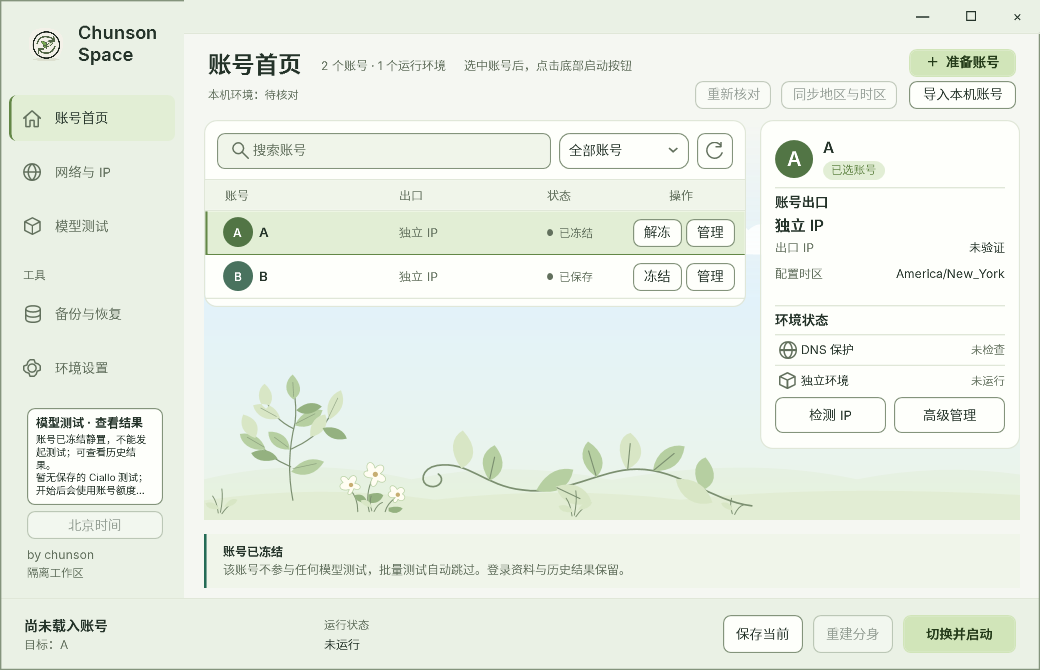
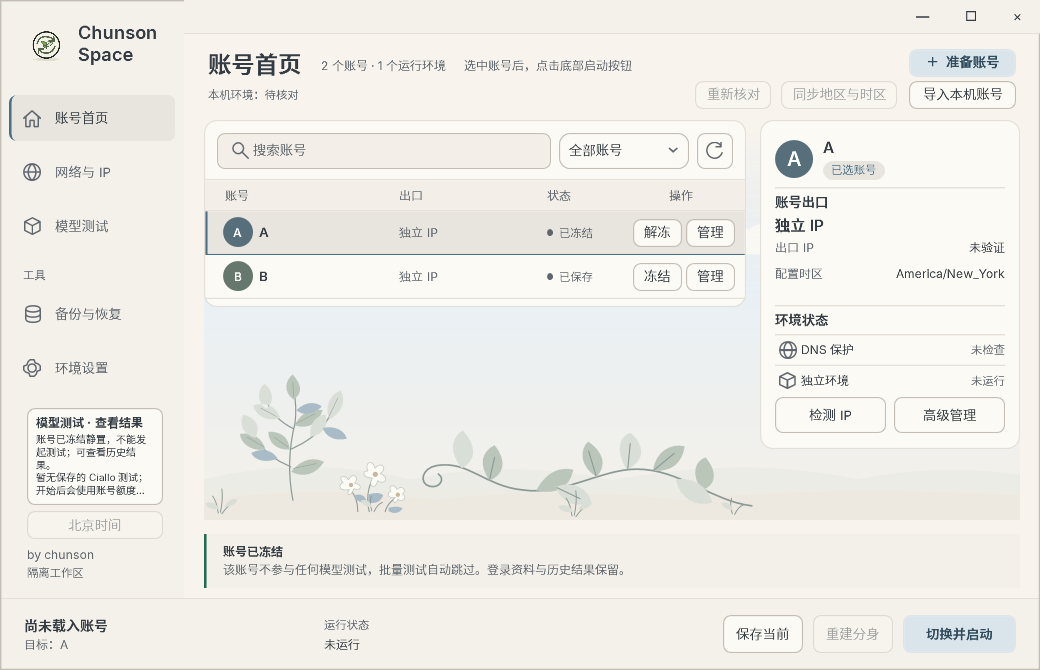
Release 1.4.2 with warm paper and mist blue UI

diff --git a/full/windows/FAswitch.Desktop/MainWindow.xaml b/full/windows/FAswitch.Desktop/MainWindow.xaml
@@ -820,7 +820,7 @@
         </StackPanel>
       </Grid>
     </Border>
-    <Grid Grid.RowSpan="4" Background="#66202B28" Visibility="{Binding IsDetailOpen,Converter={StaticResource BoolVisibility}}" Grid.ColumnSpan="2">
+    <Grid Grid.RowSpan="4" Background="{DynamicResource DetailScrimBrush}" Visibility="{Binding IsDetailOpen,Converter={StaticResource BoolVisibility}}" Grid.ColumnSpan="2">
       <Grid HorizontalAlignment="Center" VerticalAlignment="Center">
         <Border Width="820" Height="585" Background="{DynamicResource SurfaceBrush}" CornerRadius="13" BorderBrush="{DynamicResource OutlineBrush}" BorderThickness="1" />
         <Button MinHeight="28" MinWidth="30" Content="×" Command="{Binding CloseDetailsCommand}" HorizontalAlignment="Right" VerticalAlignment="Top" Margin="0,5,7,0" Padding="10,6" Background="Transparent" BorderThickness="0" FontSize="20" />
@@ -929,7 +929,7 @@
         </Border>
       </Grid>
     </Grid>
-    <Grid Grid.RowSpan="4" Background="#88202B28" KeyboardNavigation.TabNavigation="Cycle" Visibility="{Binding IsOnboardingOpen,Converter={StaticResource BoolVisibility}}" Grid.ColumnSpan="2">
+    <Grid Grid.RowSpan="4" Background="{DynamicResource ScrimBrush}" KeyboardNavigation.TabNavigation="Cycle" Visibility="{Binding IsOnboardingOpen,Converter={StaticResource BoolVisibility}}" Grid.ColumnSpan="2">
       <Border Width="560" MaxHeight="600" Background="{DynamicResource SurfaceBrush}" BorderBrush="{DynamicResource OutlineBrush}" BorderThickness="1" CornerRadius="20" Padding="28" HorizontalAlignment="Center" VerticalAlignment="Center" DataContext="{Binding Onboarding}">
         <Grid>
           <Grid.RowDefinitions><RowDefinition Height="Auto"/><RowDefinition Height="*"/><RowDefinition Height="Auto"/></Grid.RowDefinitions>
@@ -978,7 +978,7 @@
         </Grid>
       </Border>
     </Grid>
-    <Grid Grid.RowSpan="4" Background="#88202B28" KeyboardNavigation.TabNavigation="Cycle" Visibility="{Binding IsEditorOpen, Converter={StaticResource BoolVisibility}}" xmlns="http://schemas.microsoft.com/winfx/2006/xaml/presentation" Grid.ColumnSpan="2">
+    <Grid Grid.RowSpan="4" Background="{DynamicResource ScrimBrush}" KeyboardNavigation.TabNavigation="Cycle" Visibility="{Binding IsEditorOpen, Converter={StaticResource BoolVisibility}}" xmlns="http://schemas.microsoft.com/winfx/2006/xaml/presentation" Grid.ColumnSpan="2">
       <Border Width="540" MaxHeight="620" Background="{DynamicResource CanvasBrush}" CornerRadius="14" Padding="28" HorizontalAlignment="Center" VerticalAlignment="Center" BorderBrush="{DynamicResource OutlineBrush}" BorderThickness="1">
         <Grid DataContext="{Binding Editor}">
           <Grid.RowDefinitions>
@@ -1046,7 +1046,7 @@
         </Grid>
       </Border>
     </Grid>
-    <Grid Grid.RowSpan="4" Grid.ColumnSpan="2" Background="#88202B28" KeyboardNavigation.TabNavigation="Cycle" Visibility="{Binding IsDiagnosticOpen,Converter={StaticResource BoolVisibility}}">
+    <Grid Grid.RowSpan="4" Grid.ColumnSpan="2" Background="{DynamicResource ScrimBrush}" KeyboardNavigation.TabNavigation="Cycle" Visibility="{Binding IsDiagnosticOpen,Converter={StaticResource BoolVisibility}}">
       <Border Width="680" Height="530" Padding="24" CornerRadius="12" Background="{DynamicResource CanvasBrush}" BorderBrush="{DynamicResource OutlineBrush}" BorderThickness="1">
         <Grid><Grid.RowDefinitions><RowDefinition Height="Auto"/><RowDefinition Height="*"/><RowDefinition Height="Auto"/></Grid.RowDefinitions>
           <StackPanel Margin="0,0,0,16"><TextBlock x:Name="AccountResultTitle" Text="{Binding DiagnosticTitle}" FontSize="20" FontWeight="SemiBold"/><TextBlock Text="{Binding DiagnosticAccount}" Foreground="{DynamicResource MutedBrush}" FontSize="12" Margin="0,6,0,0" TextTrimming="CharacterEllipsis"/></StackPanel>
@@ -1055,7 +1055,7 @@
         </Grid>
       </Border>
     </Grid>
-    <Grid Grid.RowSpan="4" Background="#88202B28" KeyboardNavigation.TabNavigation="Cycle" DataContext="{Binding ProxyPanel.NodeTesting}" Visibility="{Binding IsOpen,Converter={StaticResource BoolVisibility}}" Grid.ColumnSpan="2">
+    <Grid Grid.RowSpan="4" Background="{DynamicResource ScrimBrush}" KeyboardNavigation.TabNavigation="Cycle" DataContext="{Binding ProxyPanel.NodeTesting}" Visibility="{Binding IsOpen,Converter={StaticResource BoolVisibility}}" Grid.ColumnSpan="2">
       <Border Width="920" Height="600" Background="{DynamicResource CanvasBrush}" BorderBrush="{DynamicResource OutlineBrush}" BorderThickness="1" CornerRadius="18" Padding="24" HorizontalAlignment="Center" VerticalAlignment="Center">
         <Grid>
           <Grid.RowDefinitions><RowDefinition Height="Auto"/><RowDefinition Height="*"/><RowDefinition Height="Auto"/></Grid.RowDefinitions>
@@ -1137,7 +1137,7 @@
         </Grid>
       </Border>
     </Grid>
-    <Grid Grid.RowSpan="4" Grid.ColumnSpan="2" Background="#88202B28" KeyboardNavigation.TabNavigation="Cycle" Visibility="{Binding IsVisualTestsOpen,Converter={StaticResource BoolVisibility}}">
+    <Grid Grid.RowSpan="4" Grid.ColumnSpan="2" Background="{DynamicResource ScrimBrush}" KeyboardNavigation.TabNavigation="Cycle" Visibility="{Binding IsVisualTestsOpen,Converter={StaticResource BoolVisibility}}">
       <Border Width="920" Height="600" Background="{DynamicResource CanvasBrush}" BorderBrush="{DynamicResource OutlineBrush}" BorderThickness="1" CornerRadius="18" Padding="24" HorizontalAlignment="Center" VerticalAlignment="Center">
         <Grid DataContext="{Binding VisualTests}">
           <Grid.RowDefinitions><RowDefinition Height="Auto"/><RowDefinition Height="*"/><RowDefinition Height="Auto"/></Grid.RowDefinitions>
@@ -1202,7 +1202,7 @@
         </Grid>
       </Border>
     </Grid>
-    <Grid Grid.RowSpan="4" Grid.ColumnSpan="2" Background="#88202B28" KeyboardNavigation.TabNavigation="Cycle" Visibility="{Binding IsCialloOpen,Converter={StaticResource BoolVisibility}}">
+    <Grid Grid.RowSpan="4" Grid.ColumnSpan="2" Background="{DynamicResource ScrimBrush}" KeyboardNavigation.TabNavigation="Cycle" Visibility="{Binding IsCialloOpen,Converter={StaticResource BoolVisibility}}">
       <Border Width="920" Height="600" Background="{DynamicResource CanvasBrush}" BorderBrush="{DynamicResource OutlineBrush}" BorderThickness="1" CornerRadius="18" Padding="24" HorizontalAlignment="Center" VerticalAlignment="Center">
         <Grid DataContext="{Binding Ciallo}">
           <Grid.RowDefinitions><RowDefinition Height="Auto"/><RowDefinition Height="*"/><RowDefinition Height="Auto"/></Grid.RowDefinitions>
@@ -1230,7 +1230,7 @@
         </Grid>
       </Border>
     </Grid>
-    <Grid Grid.RowSpan="4" Grid.ColumnSpan="2" Background="#88202B28" KeyboardNavigation.TabNavigation="Cycle" Visibility="{Binding IsModelTestOpen,Converter={StaticResource BoolVisibility}}">
+    <Grid Grid.RowSpan="4" Grid.ColumnSpan="2" Background="{DynamicResource ScrimBrush}" KeyboardNavigation.TabNavigation="Cycle" Visibility="{Binding IsModelTestOpen,Converter={StaticResource BoolVisibility}}">
       <Border x:Name="ModelTestPanel" Width="680" Background="{DynamicResource CanvasBrush}" BorderBrush="{DynamicResource OutlineBrush}" BorderThickness="1" CornerRadius="18" Padding="24" HorizontalAlignment="Center" VerticalAlignment="Center">
         <StackPanel>
           <DockPanel><Button Content="×" Command="{Binding CloseModelTestCommand}" DockPanel.Dock="Right" FontSize="20" Padding="9,4" Background="Transparent" BorderThickness="0"/><TextBlock Text="模型测试" FontSize="22" FontWeight="SemiBold" VerticalAlignment="Center"/></DockPanel>

diff --git a/full/windows/FAswitch.Desktop/App.xaml b/full/windows/FAswitch.Desktop/App.xaml
@@ -1,33 +1,35 @@
 <Application x:Class="FAswitch.Desktop.App" xmlns="http://schemas.microsoft.com/winfx/2006/xaml/presentation" xmlns:x="http://schemas.microsoft.com/winfx/2006/xaml">
   <Application.Resources>
     <FontFamily x:Key="AppFont">/ChunsonSwitch;component/Assets/Fonts/#Inter, /ChunsonSwitch;component/Assets/Fonts/#Source Han Sans CN</FontFamily>
-    <SolidColorBrush x:Key="CanvasBrush" Color="#F5F7F2" />
-    <SolidColorBrush x:Key="SurfaceBrush" Color="#FEFFFB" />
-    <SolidColorBrush x:Key="ElevatedBrush" Color="#F0F5EA" />
-    <SolidColorBrush x:Key="SidebarBrush" Color="#EAF1E5" />
-    <SolidColorBrush x:Key="PlayerBrush" Color="#EAF1E5" />
-    <SolidColorBrush x:Key="InkBrush" Color="#243329" />
-    <SolidColorBrush x:Key="MutedBrush" Color="#62705D" />
-    <SolidColorBrush x:Key="AccentBrush" Color="#638746" />
-    <SolidColorBrush x:Key="AccentInkBrush" Color="#243B19" />
-    <SolidColorBrush x:Key="BrandSecondaryBrush" Color="#638746" />
-    <SolidColorBrush x:Key="PrimaryBrush" Color="#D1E5B9" />
-    <SolidColorBrush x:Key="LineBrush" Color="#E0E7D8" />
-    <SolidColorBrush x:Key="OutlineBrush" Color="#84947C" />
-    <SolidColorBrush x:Key="HoverOutlineBrush" Color="#638746" />
-    <SolidColorBrush x:Key="FocusOutlineBrush" Color="#638746" />
-    <SolidColorBrush x:Key="SelectionBrush" Color="#E2EED5" />
-    <SolidColorBrush x:Key="InfoSurfaceBrush" Color="#F0F5EA" />
-    <SolidColorBrush x:Key="ErrorSurfaceBrush" Color="#F7EBE5" />
-    <SolidColorBrush x:Key="BadgeBrush" Color="#E2EED5" />
+    <SolidColorBrush x:Key="CanvasBrush" Color="#F8F4ED" />
+    <SolidColorBrush x:Key="SurfaceBrush" Color="#FCFAF5" />
+    <SolidColorBrush x:Key="ElevatedBrush" Color="#F3EFE8" />
+    <SolidColorBrush x:Key="SidebarBrush" Color="#F4F0EA" />
+    <SolidColorBrush x:Key="PlayerBrush" Color="#F4F0EA" />
+    <SolidColorBrush x:Key="InkBrush" Color="#343C43" />
+    <SolidColorBrush x:Key="MutedBrush" Color="#5F676E" />
+    <SolidColorBrush x:Key="AccentBrush" Color="#4A7087" />
+    <SolidColorBrush x:Key="AccentInkBrush" Color="#2F4B5C" />
+    <SolidColorBrush x:Key="BrandSecondaryBrush" Color="#4A7087" />
+    <SolidColorBrush x:Key="PrimaryBrush" Color="#DAE5EB" />
+    <SolidColorBrush x:Key="LineBrush" Color="#E4DFD7" />
+    <SolidColorBrush x:Key="OutlineBrush" Color="#C3BDB4" />
+    <SolidColorBrush x:Key="HoverOutlineBrush" Color="#7391A3" />
+    <SolidColorBrush x:Key="FocusOutlineBrush" Color="#4A7087" />
+    <SolidColorBrush x:Key="SelectionBrush" Color="#E8E4DE" />
+    <SolidColorBrush x:Key="InfoSurfaceBrush" Color="#F3F0E9" />
+    <SolidColorBrush x:Key="ErrorSurfaceBrush" Color="#F4E8E2" />
+    <SolidColorBrush x:Key="BadgeBrush" Color="#E6EDF0" />
+    <SolidColorBrush x:Key="ScrimBrush" Color="#66353F48" />
+    <SolidColorBrush x:Key="DetailScrimBrush" Color="#44353F48" />
     <LinearGradientBrush x:Key="HeroBrush" StartPoint="0,0" EndPoint="1,0.45">
-      <GradientStop Color="#EAF1E5" Offset="0" />
-      <GradientStop Color="#FEFFFB" Offset="1" />
+      <GradientStop Color="#F4F0EA" Offset="0" />
+      <GradientStop Color="#FCFAF5" Offset="1" />
     </LinearGradientBrush>
     <LinearGradientBrush x:Key="AmbientBrush" StartPoint="0,0" EndPoint="0,1">
-      <GradientStop Color="#0078A950" Offset="0" />
-      <GradientStop Color="#0078A950" Offset="0.58" />
-      <GradientStop Color="#0078A950" Offset="1" />
+      <GradientStop Color="#004A7087" Offset="0" />
+      <GradientStop Color="#004A7087" Offset="0.58" />
+      <GradientStop Color="#004A7087" Offset="1" />
     </LinearGradientBrush>
     <BitmapImage x:Key="BrandMark" UriSource="/ChunsonSwitch;component/Assets/BrandMark.png"/>
     <Style TargetType="TextBlock">

diff --git a/full/windows/FAswitch.Desktop/WorkspaceTheme.cs b/full/windows/FAswitch.Desktop/WorkspaceTheme.cs
@@ -6,30 +6,34 @@ public static class WorkspaceTheme
 {
     private static readonly IReadOnlyDictionary<string, string> Dark = new Dictionary<string, string>
     {
-        ["CanvasBrush"] = "#1A211C", ["SurfaceBrush"] = "#212B24", ["ElevatedBrush"] = "#2A352C",
-        ["SidebarBrush"] = "#182119", ["PlayerBrush"] = "#212B24", ["InkBrush"] = "#EEF5E7",
-        ["MutedBrush"] = "#B6C3AE", ["AccentBrush"] = "#A9CC8A", ["AccentInkBrush"] = "#1C2D18",
-        ["BrandSecondaryBrush"] = "#A9CC8A", ["PrimaryBrush"] = "#A9CC8A",
-        ["LineBrush"] = "#354639", ["OutlineBrush"] = "#788B75", ["HoverOutlineBrush"] = "#A9CC8A",
-        ["FocusOutlineBrush"] = "#A9CC8A", ["SelectionBrush"] = "#32472C", ["InfoSurfaceBrush"] = "#2A352C",
-        ["ErrorSurfaceBrush"] = "#48352E", ["BadgeBrush"] = "#32472C",
-        ["GardenStemBrush"] = "#94AC84", ["GardenLeafBrush"] = "#759664", ["GardenPaleBrush"] = "#526C49",
-        ["GardenShadeBrush"] = "#8BAB76", ["GardenPetalBrush"] = "#D5DDBF", ["GardenGoldBrush"] = "#C7B77D",
-        ["GardenCloudBrush"] = "#718A90", ["GardenMeadowBrush"] = "#2B402E"
+        ["CanvasBrush"] = "#20272D", ["SurfaceBrush"] = "#272F35", ["ElevatedBrush"] = "#303A42",
+        ["SidebarBrush"] = "#1D252B", ["PlayerBrush"] = "#252E35", ["InkBrush"] = "#F1EEE8",
+        ["MutedBrush"] = "#B4C0C8", ["AccentBrush"] = "#ACC5D5", ["AccentInkBrush"] = "#213A49",
+        ["BrandSecondaryBrush"] = "#ACC5D5", ["PrimaryBrush"] = "#ACC5D5",
+        ["LineBrush"] = "#3A454D", ["OutlineBrush"] = "#657581", ["HoverOutlineBrush"] = "#ACC5D5",
+        ["FocusOutlineBrush"] = "#ACC5D5", ["SelectionBrush"] = "#354550", ["InfoSurfaceBrush"] = "#303A42",
+        ["ErrorSurfaceBrush"] = "#493B38", ["BadgeBrush"] = "#354550",
+        ["ScrimBrush"] = "#9920282E", ["DetailScrimBrush"] = "#7720282E",
+        ["GardenStemBrush"] = "#8E9E9D", ["GardenLeafBrush"] = "#788E85", ["GardenPaleBrush"] = "#4E6464",
+        ["GardenShadeBrush"] = "#6A8390", ["GardenPetalBrush"] = "#D8D6CB", ["GardenGoldBrush"] = "#B3A58D",
+        ["GardenCloudBrush"] = "#6A8191", ["GardenMeadowBrush"] = "#29343A"
     };
     private static readonly IReadOnlyDictionary<string, string> Light = new Dictionary<string, string>
     {
-        ["CanvasBrush"] = "#F5F7F2", ["SurfaceBrush"] = "#FEFFFB", ["ElevatedBrush"] = "#F0F5EA",
-        ["SidebarBrush"] = "#EAF1E5", ["PlayerBrush"] = "#EAF1E5", ["InkBrush"] = "#243329",
-        ["MutedBrush"] = "#62705D", ["AccentBrush"] = "#638746", ["AccentInkBrush"] = "#243B19",
-        ["BrandSecondaryBrush"] = "#638746", ["PrimaryBrush"] = "#D1E5B9",
-        ["LineBrush"] = "#E0E7D8", ["OutlineBrush"] = "#84947C", ["HoverOutlineBrush"] = "#638746",
-        ["FocusOutlineBrush"] = "#638746", ["SelectionBrush"] = "#E2EED5", ["InfoSurfaceBrush"] = "#F0F5EA",
-        ["ErrorSurfaceBrush"] = "#F7EBE5", ["BadgeBrush"] = "#E2EED5",
-        ["GardenStemBrush"] = "#7B8F70", ["GardenLeafBrush"] = "#B6CFA1", ["GardenPaleBrush"] = "#D8E6C5",
-        ["GardenShadeBrush"] = "#94B180", ["GardenPetalBrush"] = "#FFFDF2", ["GardenGoldBrush"] = "#C7AE72",
-        ["GardenCloudBrush"] = "#FFFFFF", ["GardenMeadowBrush"] = "#E2EDD4"
+        ["CanvasBrush"] = "#F8F4ED", ["SurfaceBrush"] = "#FCFAF5", ["ElevatedBrush"] = "#F3EFE8",
+        ["SidebarBrush"] = "#F4F0EA", ["PlayerBrush"] = "#F4F0EA", ["InkBrush"] = "#343C43",
+        ["MutedBrush"] = "#5F676E", ["AccentBrush"] = "#4A7087", ["AccentInkBrush"] = "#2F4B5C",
+        ["BrandSecondaryBrush"] = "#4A7087", ["PrimaryBrush"] = "#DAE5EB",
+        ["LineBrush"] = "#E4DFD7", ["OutlineBrush"] = "#C3BDB4", ["HoverOutlineBrush"] = "#7391A3",
+        ["FocusOutlineBrush"] = "#4A7087", ["SelectionBrush"] = "#E8E4DE", ["InfoSurfaceBrush"] = "#F3F0E9",
+        ["ErrorSurfaceBrush"] = "#F4E8E2", ["BadgeBrush"] = "#E6EDF0",
+        ["ScrimBrush"] = "#66353F48", ["DetailScrimBrush"] = "#44353F48",
+        ["GardenStemBrush"] = "#8B9995", ["GardenLeafBrush"] = "#BBC6BB", ["GardenPaleBrush"] = "#D9DFD6",
+        ["GardenShadeBrush"] = "#A8BBC6", ["GardenPetalBrush"] = "#FCFAF5", ["GardenGoldBrush"] = "#C5B89F",
+        ["GardenCloudBrush"] = "#FCFAF5", ["GardenMeadowBrush"] = "#EDE9E1"
     };
+    private static readonly string[] AvatarColors = ["#576F7B", "#66786D", "#7B6D60", "#6C7188"];
+    internal static string AvatarColor(int index) => AvatarColors[index % AvatarColors.Length];
     public static string Current { get; private set; } = "light";
     public static void Apply(string theme)
     {
@@ -40,22 +44,22 @@ public static class WorkspaceTheme
             var brush = new SolidColorBrush(Parse(color)); brush.Freeze(); resources[name] = brush;
         }
         var hero = Current == "dark"
-            ? new LinearGradientBrush(Parse("#30412C"), Parse("#212B24"), 24)
-            : new LinearGradientBrush(Parse("#EAF1E5"), Parse("#FEFFFB"), 24);
+            ? new LinearGradientBrush(Parse("#354550"), Parse("#272F35"), 24)
+            : new LinearGradientBrush(Parse("#F4F0EA"), Parse("#FCFAF5"), 24);
         hero.Freeze(); resources["HeroBrush"] = hero;
         var sky = new LinearGradientBrush { StartPoint = new System.Windows.Point(0, 0), EndPoint = new System.Windows.Point(0, 1) };
-        sky.GradientStops.Add(new GradientStop(Parse(Current == "dark" ? "#00243742" : "#00DCEEFA"), 0));
-        sky.GradientStops.Add(new GradientStop(Parse(Current == "dark" ? "#243742" : "#E2F2FA"), 0.45));
-        sky.GradientStops.Add(new GradientStop(Parse(Current == "dark" ? "#27382C" : "#EDF5E8"), 1));
+        sky.GradientStops.Add(new GradientStop(Parse(Current == "dark" ? "#002D3D49" : "#00DDE8F0"), 0));
+        sky.GradientStops.Add(new GradientStop(Parse(Current == "dark" ? "#2D3D49" : "#E9F0F4"), 0.45));
+        sky.GradientStops.Add(new GradientStop(Parse(Current == "dark" ? "#29343A" : "#F4F0E8"), 1));
         sky.Freeze(); resources["GardenSkyBrush"] = sky;
         var ambient = new LinearGradientBrush
         {
             StartPoint = new System.Windows.Point(0, 0), EndPoint = new System.Windows.Point(0, 1),
             GradientStops =
             {
-                new GradientStop(Parse("#0078A950"), 0),
-                new GradientStop(Parse("#0078A950"), 0.58),
-                new GradientStop(Parse(Current == "dark" ? "#0078A950" : "#0078A950"), 1)
+                new GradientStop(Parse("#004A7087"), 0),
+                new GradientStop(Parse("#004A7087"), 0.58),
+                new GradientStop(Parse("#004A7087"), 1)
             }
         };
         ambient.Freeze(); resources["AmbientBrush"] = ambient;

diff --git a/full/windows/FAswitch.Desktop/Presentation.cs b/full/windows/FAswitch.Desktop/Presentation.cs
@@ -43,16 +43,16 @@ public static class PreviewDataSource
 {
     public static IReadOnlyList<IdentityItem> Identities { get; } =
     [
-        new("日常工作", "Account", "Plus · 演示账号", "工", "#7855AD", "http://127.0.0.1:18081", "America/Chicago", "en-US", "Codex 默认"),
-        new("开发测试", "Account", "Pro · 演示账号", "测", "#386EAD", "http://127.0.0.1:18082", "Asia/Shanghai", "en-US", "Codex 默认"),
-        new("个人空间", "Account", "Free · 演示账号", "个", "#947132", "http://127.0.0.1:18083", "Asia/Shanghai", "en-US", "Codex 默认"),
-        new("备用账号 01", "Account", "已保存登录资料", "备", "#357D84", "http://127.0.0.1:18084", "Asia/Tokyo", "en-US", "Codex 默认"),
-        new("备用账号 02", "Account", "已保存登录资料", "备", "#A45370", "http://127.0.0.1:18085", "America/New_York", "en-US", "Codex 默认"),
-        new("备用账号 03", "Account", "待登录", "备", "#386EAD", "http://127.0.0.1:18086", "Asia/Singapore", "en-US", "Codex 默认"),
-        new("备用账号 04", "Account", "已保存登录资料", "备", "#9550A0", "http://127.0.0.1:18087", "Europe/London", "en-US", "Codex 默认"),
-        new("备用账号 05", "Account", "已保存登录资料", "备", "#487F55", "http://127.0.0.1:18088", "Europe/Berlin", "en-US", "Codex 默认"),
-        new("备用账号 06", "Account", "已保存登录资料", "备", "#A47346", "http://127.0.0.1:18089", "Asia/Hong_Kong", "en-US", "Codex 默认"),
-        new("备用账号 07", "Account", "已保存登录资料", "备", "#607494", "", "", "en-US", "Codex 默认", true),
+        new("日常工作", "Account", "Plus · 演示账号", "工", WorkspaceTheme.AvatarColor(0), "http://127.0.0.1:18081", "America/Chicago", "en-US", "Codex 默认"),
+        new("开发测试", "Account", "Pro · 演示账号", "测", WorkspaceTheme.AvatarColor(1), "http://127.0.0.1:18082", "Asia/Shanghai", "en-US", "Codex 默认"),
+        new("个人空间", "Account", "Free · 演示账号", "个", WorkspaceTheme.AvatarColor(2), "http://127.0.0.1:18083", "Asia/Shanghai", "en-US", "Codex 默认"),
+        new("备用账号 01", "Account", "已保存登录资料", "备", WorkspaceTheme.AvatarColor(3), "http://127.0.0.1:18084", "Asia/Tokyo", "en-US", "Codex 默认"),
+        new("备用账号 02", "Account", "已保存登录资料", "备", WorkspaceTheme.AvatarColor(4), "http://127.0.0.1:18085", "America/New_York", "en-US", "Codex 默认"),
+        new("备用账号 03", "Account", "待登录", "备", WorkspaceTheme.AvatarColor(5), "http://127.0.0.1:18086", "Asia/Singapore", "en-US", "Codex 默认"),
+        new("备用账号 04", "Account", "已保存登录资料", "备", WorkspaceTheme.AvatarColor(6), "http://127.0.0.1:18087", "Europe/London", "en-US", "Codex 默认"),
+        new("备用账号 05", "Account", "已保存登录资料", "备", WorkspaceTheme.AvatarColor(7), "http://127.0.0.1:18088", "Europe/Berlin", "en-US", "Codex 默认"),
+        new("备用账号 06", "Account", "已保存登录资料", "备", WorkspaceTheme.AvatarColor(8), "http://127.0.0.1:18089", "Asia/Hong_Kong", "en-US", "Codex 默认"),
+        new("备用账号 07", "Account", "已保存登录资料", "备", WorkspaceTheme.AvatarColor(9), "", "", "en-US", "Codex 默认", true),
     ];
 }
 

diff --git a/FlClashSetup/FlClashSetupWindow.cs b/FlClashSetup/FlClashSetupWindow.cs
@@ -25,8 +25,8 @@ internal sealed class FlClashSetupWindow : Window
         MinWidth = missing ? 560 : 580; MinHeight = missing ? 290 : 470;
         ResizeMode = missing ? ResizeMode.NoResize : ResizeMode.CanResize;
         WindowStartupLocation = WindowStartupLocation.CenterScreen;
-        Background = new SolidColorBrush(Color.FromRgb(246, 248, 240));
-        Foreground = new SolidColorBrush(Color.FromRgb(36, 55, 42));
+        Background = TryFindResource("CanvasBrush") as Brush ?? new SolidColorBrush(Color.FromRgb(248, 244, 237));
+        Foreground = TryFindResource("InkBrush") as Brush ?? new SolidColorBrush(Color.FromRgb(52, 60, 67));
         FontFamily = new FontFamily("Microsoft YaHei UI"); FontSize = 15;
         var stack = new StackPanel { Margin = new Thickness(28) };
         stack.Children.Add(new TextBlock { Text = missing ? "未检测到 FlClash" : "先准备好 FlClash", FontSize = 27, FontWeight = FontWeights.SemiBold });
@@ -40,6 +40,9 @@ internal sealed class FlClashSetupWindow : Window
         {
             // Keep setup controls independent of the main application's templates.
             button.Style = new Style(typeof(Button));
+            button.SetResourceReference(Control.BackgroundProperty, "SurfaceBrush");
+            button.SetResourceReference(Control.ForegroundProperty, "InkBrush");
+            button.SetResourceReference(Control.BorderBrushProperty, "OutlineBrush");
             button.Padding = new Thickness(13, 9, 13, 9); button.Margin = new Thickness(0, 0, 8, 9);
             actions.Children.Add(button);
         }

diff --git a/full/windows/FAswitch.Desktop/StoragePresentation.cs b/full/windows/FAswitch.Desktop/StoragePresentation.cs
@@ -193,13 +193,12 @@ public sealed partial class ShellViewModel
     private void ReloadProfiles()
     {
         if (workspace is null) return;
-        var accounts = workspace.Profiles.ListAccounts().Select((a, index) => new IdentityItem(a.Name, "Account", a.TestsFrozen ? "已冻结静置 · 不参与模型测试" : a.HasCredentials ? "已保存登录资料" : "待登录", Initial(a.Name), AvatarColor(index), a.Environment.Proxy, a.Environment.Timezone, a.Environment.Locale, "Codex 默认", a.Environment.FollowSystemProxy, a.TestsFrozen));
+        var accounts = workspace.Profiles.ListAccounts().Select((a, index) => new IdentityItem(a.Name, "Account", a.TestsFrozen ? "已冻结静置 · 不参与模型测试" : a.HasCredentials ? "已保存登录资料" : "待登录", Initial(a.Name), WorkspaceTheme.AvatarColor(index), a.Environment.Proxy, a.Environment.Timezone, a.Environment.Locale, "Codex 默认", a.Environment.FollowSystemProxy, a.TestsFrozen));
         identities = accounts.ToArray();
         LoadExitObservations();
         Selected = null; UpdateItems(); Selected = FilteredItems.FirstOrDefault();
     }
     private static string Initial(string name) => name.Length > 0 ? System.Globalization.StringInfo.GetNextTextElement(name) : "?";
-    private static string AvatarColor(int index) => new[] { "#527545", "#49725E", "#687B4D", "#54766C" }[index % 4];
     private void SaveSettings()
     {
         if (workspace is null) { ShowFeedback("演示设置已应用", "这些演示设置仅在当前窗口保存。", "Info"); return; }

diff --git a/README.md b/README.md
@@ -4,7 +4,7 @@
 
 <p align="center">Windows 10 / 11 · 64 位 · 中文界面 · MIT 开源</p>
 
-<p align="center"><strong>当前版本 1.4.1</strong> · 账号列表直接冻结 · FlClash 下载提示 · 分身重建修复</p>
+<p align="center"><strong>当前版本 1.4.2</strong> · 暖米白与雾蓝新配色 · 明暗主题 · 账号冻结与后台测试</p>
 
 <p align="center">
   <a href="https://github.com/chunson-studio/chunson-space/releases/latest/download/Chunson-Full-Windows-x64.zip"><img src="docs/assets/download-full.svg" alt="下载完整版 ZIP" width="300"></a>
@@ -26,7 +26,15 @@
 
 从本次发布起只维护完整版。原简洁版停止更新，旧源码和下载包保留在历史版本中。
 
-## 1.4.1 更新了什么
+## 1.4.2 更新了什么
+
+- **更柔和的界面**：暖米白背景、浅灰侧栏、雾蓝按钮，保留原有嫩芽图案。
+- **统一明暗主题**：账号列表、弹窗、按钮和 FlClash 提示使用同一套配色，调整辅助文字的清晰度。
+- **更新界面截图**：下面的首页、网络、测试与冻结截图均来自新版程序的离线演示。
+
+本次更新聚焦界面配色，功能入口和账号配置保持原有方式。网络与 IP 页面仍独立保留。
+
+### 保留 1.4.1 的功能与修复
 
 - **冻结入口更明显**：账号列表每行都有“冻结／解冻”，冻结后保留账号并显示“已冻结”。单独测试与“全部测试”都会跳过它，历史结果仍可查看。
 - **FlClash 提示更简单**：未检测到安装时显示通知，点击后用浏览器打开官方下载页，软件随即退出。自行安装、配置订阅后，再打开本工具。
